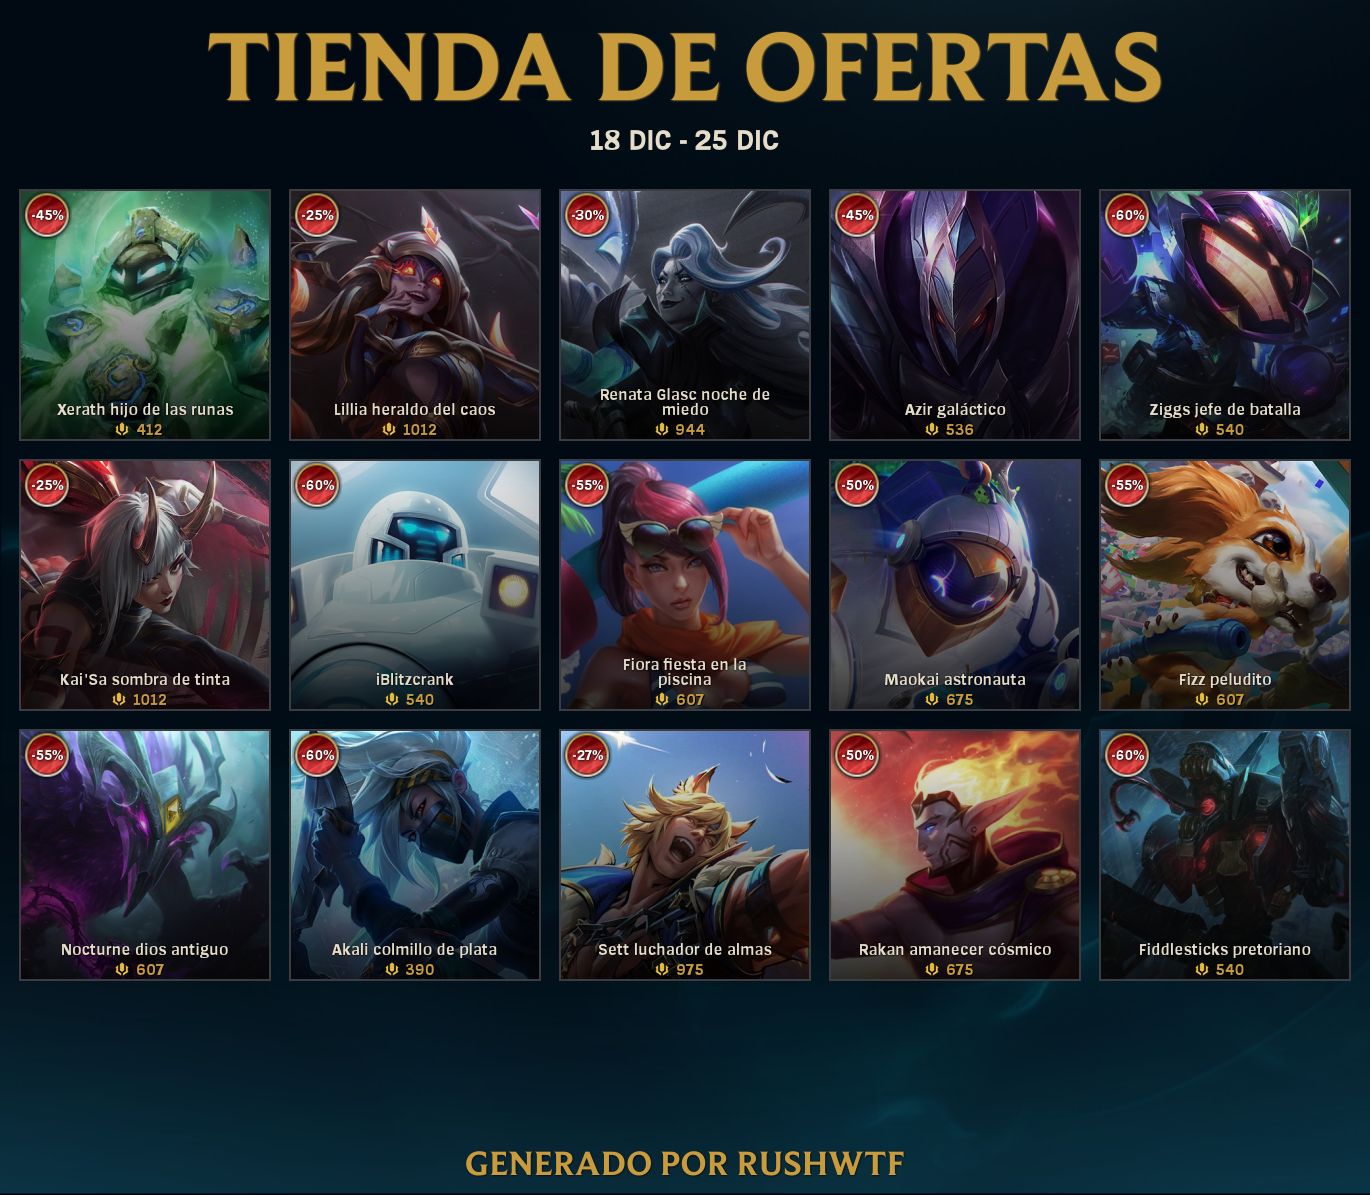
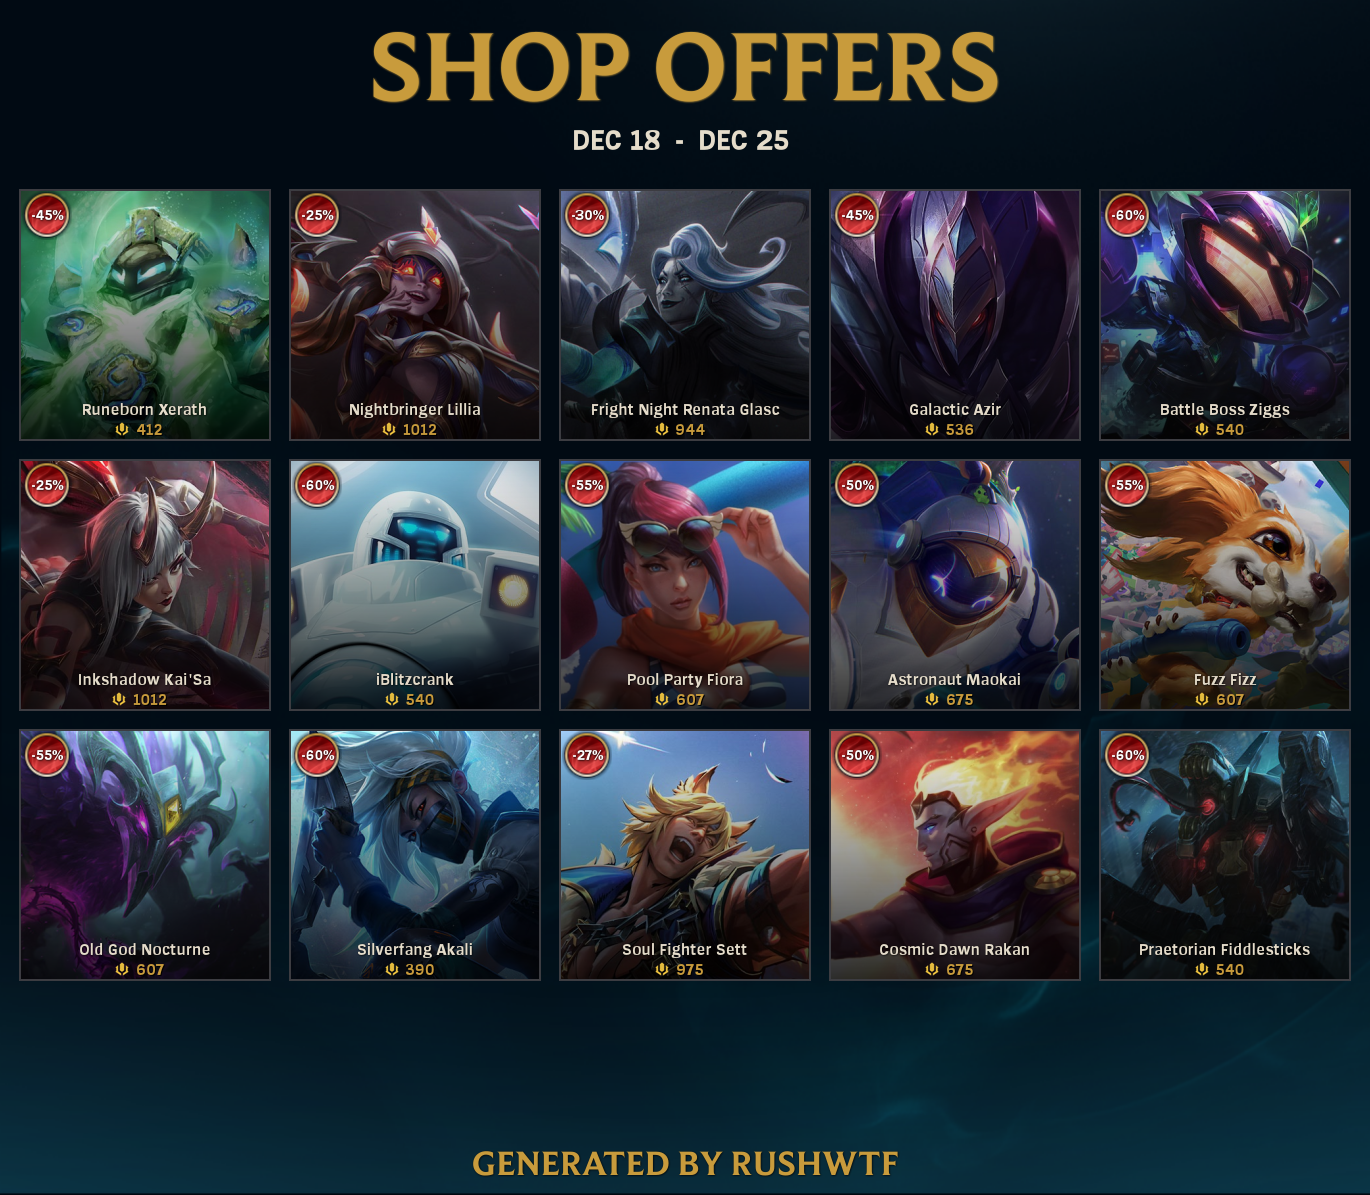
Add data.json and prompt dependency, update language selection

diff --git a/index.js b/index.js
@@ -2,11 +2,31 @@ const axios = require('axios');
 const https = require('https');
 const fs = require('fs');
 const canvas = require('./canva');
-
+const prompt = require('prompt');
 // Get lockfile data
 async function getLockfile() {
     console.log("Getting lockfile data...");
-    const lockfile = fs.readFileSync("C:\\Riot Games\\League of Legends\\lockfile", "utf8");
+    var lockfile;
+    if (!fs.existsSync("data.json")) {
+        console.log("Lockfile path not found, please enter it manually.");
+        prompt.start();
+        var resultLockfile = await prompt.get(["lockfile"]);
+        console.log("Lockfile path entered successfully.");
+        console.log("Saving lockfile path...");
+        console.log("If you want to change the lockfile path, delete the data.json file.")
+        lockfile = fs.readFileSync(result.lockfile, "utf-8");
+        console.log("Enter your language (es_ES, en_US, etc...)");
+        prompt.start();
+        var resultLang = await prompt.get(["language"]);
+        console.log("Language entered successfully.");
+        console.log("Saving language...");
+        fs.writeFileSync("data.json", JSON.stringify({lockfile: resultLockfile.lockfile, language: resultLang.language}));
+    }
+    else {
+        var lockfileRead = fs.readFileSync("data.json", "utf-8");
+        lockfileRead = JSON.parse(lockfileRead).lockfile;
+        lockfile = fs.readFileSync(lockfileRead, "utf-8");
+    }
     return lockfile.split(":");
 }
 // Create API
@@ -53,15 +73,17 @@ async function main() {
         }
         // Get skin info
         async function getInfoSkins(skinId) {
-            console.log("Getting skins info...");
             const response = await api.get(`/lol-store/v1/skins/${skinId}`);
+            let language = JSON.parse(fs.readFileSync("data.json", "utf-8")).language;
             let data = [];
             let champId = response.data.itemRequirements[0].itemId
             let originalPrice = response.data.prices[0].cost;
             let discountPrice = response.data.sale.prices[0].cost;
             let discountPercent = response.data.sale.prices[0].discount;
-            let skinName = response.data.localizations.es_ES.name;
+            let skinName = response.data.localizations[language].name;
+            console.log(`Getting info from ${skinName}`);
             data.push(champId, originalPrice, discountPrice, discountPercent, skinName);
+            console.log(`Info from ${skinName} got successfully`);
             return data;
         }
         // Get store sales
@@ -85,10 +107,14 @@ async function main() {
             let skin = new Skin(startDate, endDate, skinId, champId, originalPrice, discountPrice, discountPercent, skinName, `https://raw.communitydragon.org/latest/plugins/rcp-be-lol-game-data/global/default/v1/champion-tiles/${champId}/${skinId}.jpg`);
             skins.push(skin);
         }
+        console.log("Creating image...");
         // Create image
         let image = await canvas(skins);
         // Save image
+        console.log("Saving image...");
         fs.writeFileSync("storeSales.png", image);
+        console.log("Image saved successfully.");
+        console.log("Finished.");
 
     } catch (error) {
         console.error(`Error: ${error.message}`);

diff --git a/canva.js b/canva.js
@@ -19,7 +19,7 @@ module.exports = async function createImage(skins) {
     ctx.fillStyle = "#C89B3C";
     ctx.font = "100px BeaufortforLOL";
     ctx.textAlign = "center";
-    ctx.fillText("TIENDA DE OFERTAS", 1370 / 2, 100);
+    ctx.fillText("SHOP OFFERS", 1370 / 2, 100);
     ctx.shadowColor = "black";
     ctx.shadowBlur = 0;
     ctx.shadowOffsetX = 0;
@@ -31,7 +31,7 @@ module.exports = async function createImage(skins) {
     // Get date from timestamp
     let date = new Date(startDate);
     let date2 = new Date(endDate);
-    ctx.fillText(`${date.getDate()} ${date.toLocaleString('default', { month: 'short' }).toUpperCase()} - ${date2.getDate()} ${date2.toLocaleString('default', { month: 'short' }).toLocaleUpperCase()}`, 1370 / 2, 150);
+    ctx.fillText(`${date.toLocaleString('default', { month: 'short' }).toUpperCase()} ${date.getDate()}  -  ${date2.toLocaleString('default', { month: 'short' }).toLocaleUpperCase()} ${date2.getDate()} `, 1370 / 2, 150);
     
     for (let i = 0; i < skins.length; i++) {
         let rows_n = Math.floor(i / 5);
@@ -157,7 +157,7 @@ module.exports = async function createImage(skins) {
     ctx.shadowOffsetY = 1;
     ctx.fillStyle = "#C89B3C";
     ctx.font = "35px BeaufortforLOL";
-    ctx.fillText("GENERADO POR RUSHWTF", 1370 / 2, 1195 - 20);
+    ctx.fillText("GENERATED BY RUSHWTF", 1370 / 2, 1195 - 20);
     ctx.shadowColor = "#E5DCCA";
     ctx.shadowBlur = 0;
     ctx.shadowOffsetX = 0;
